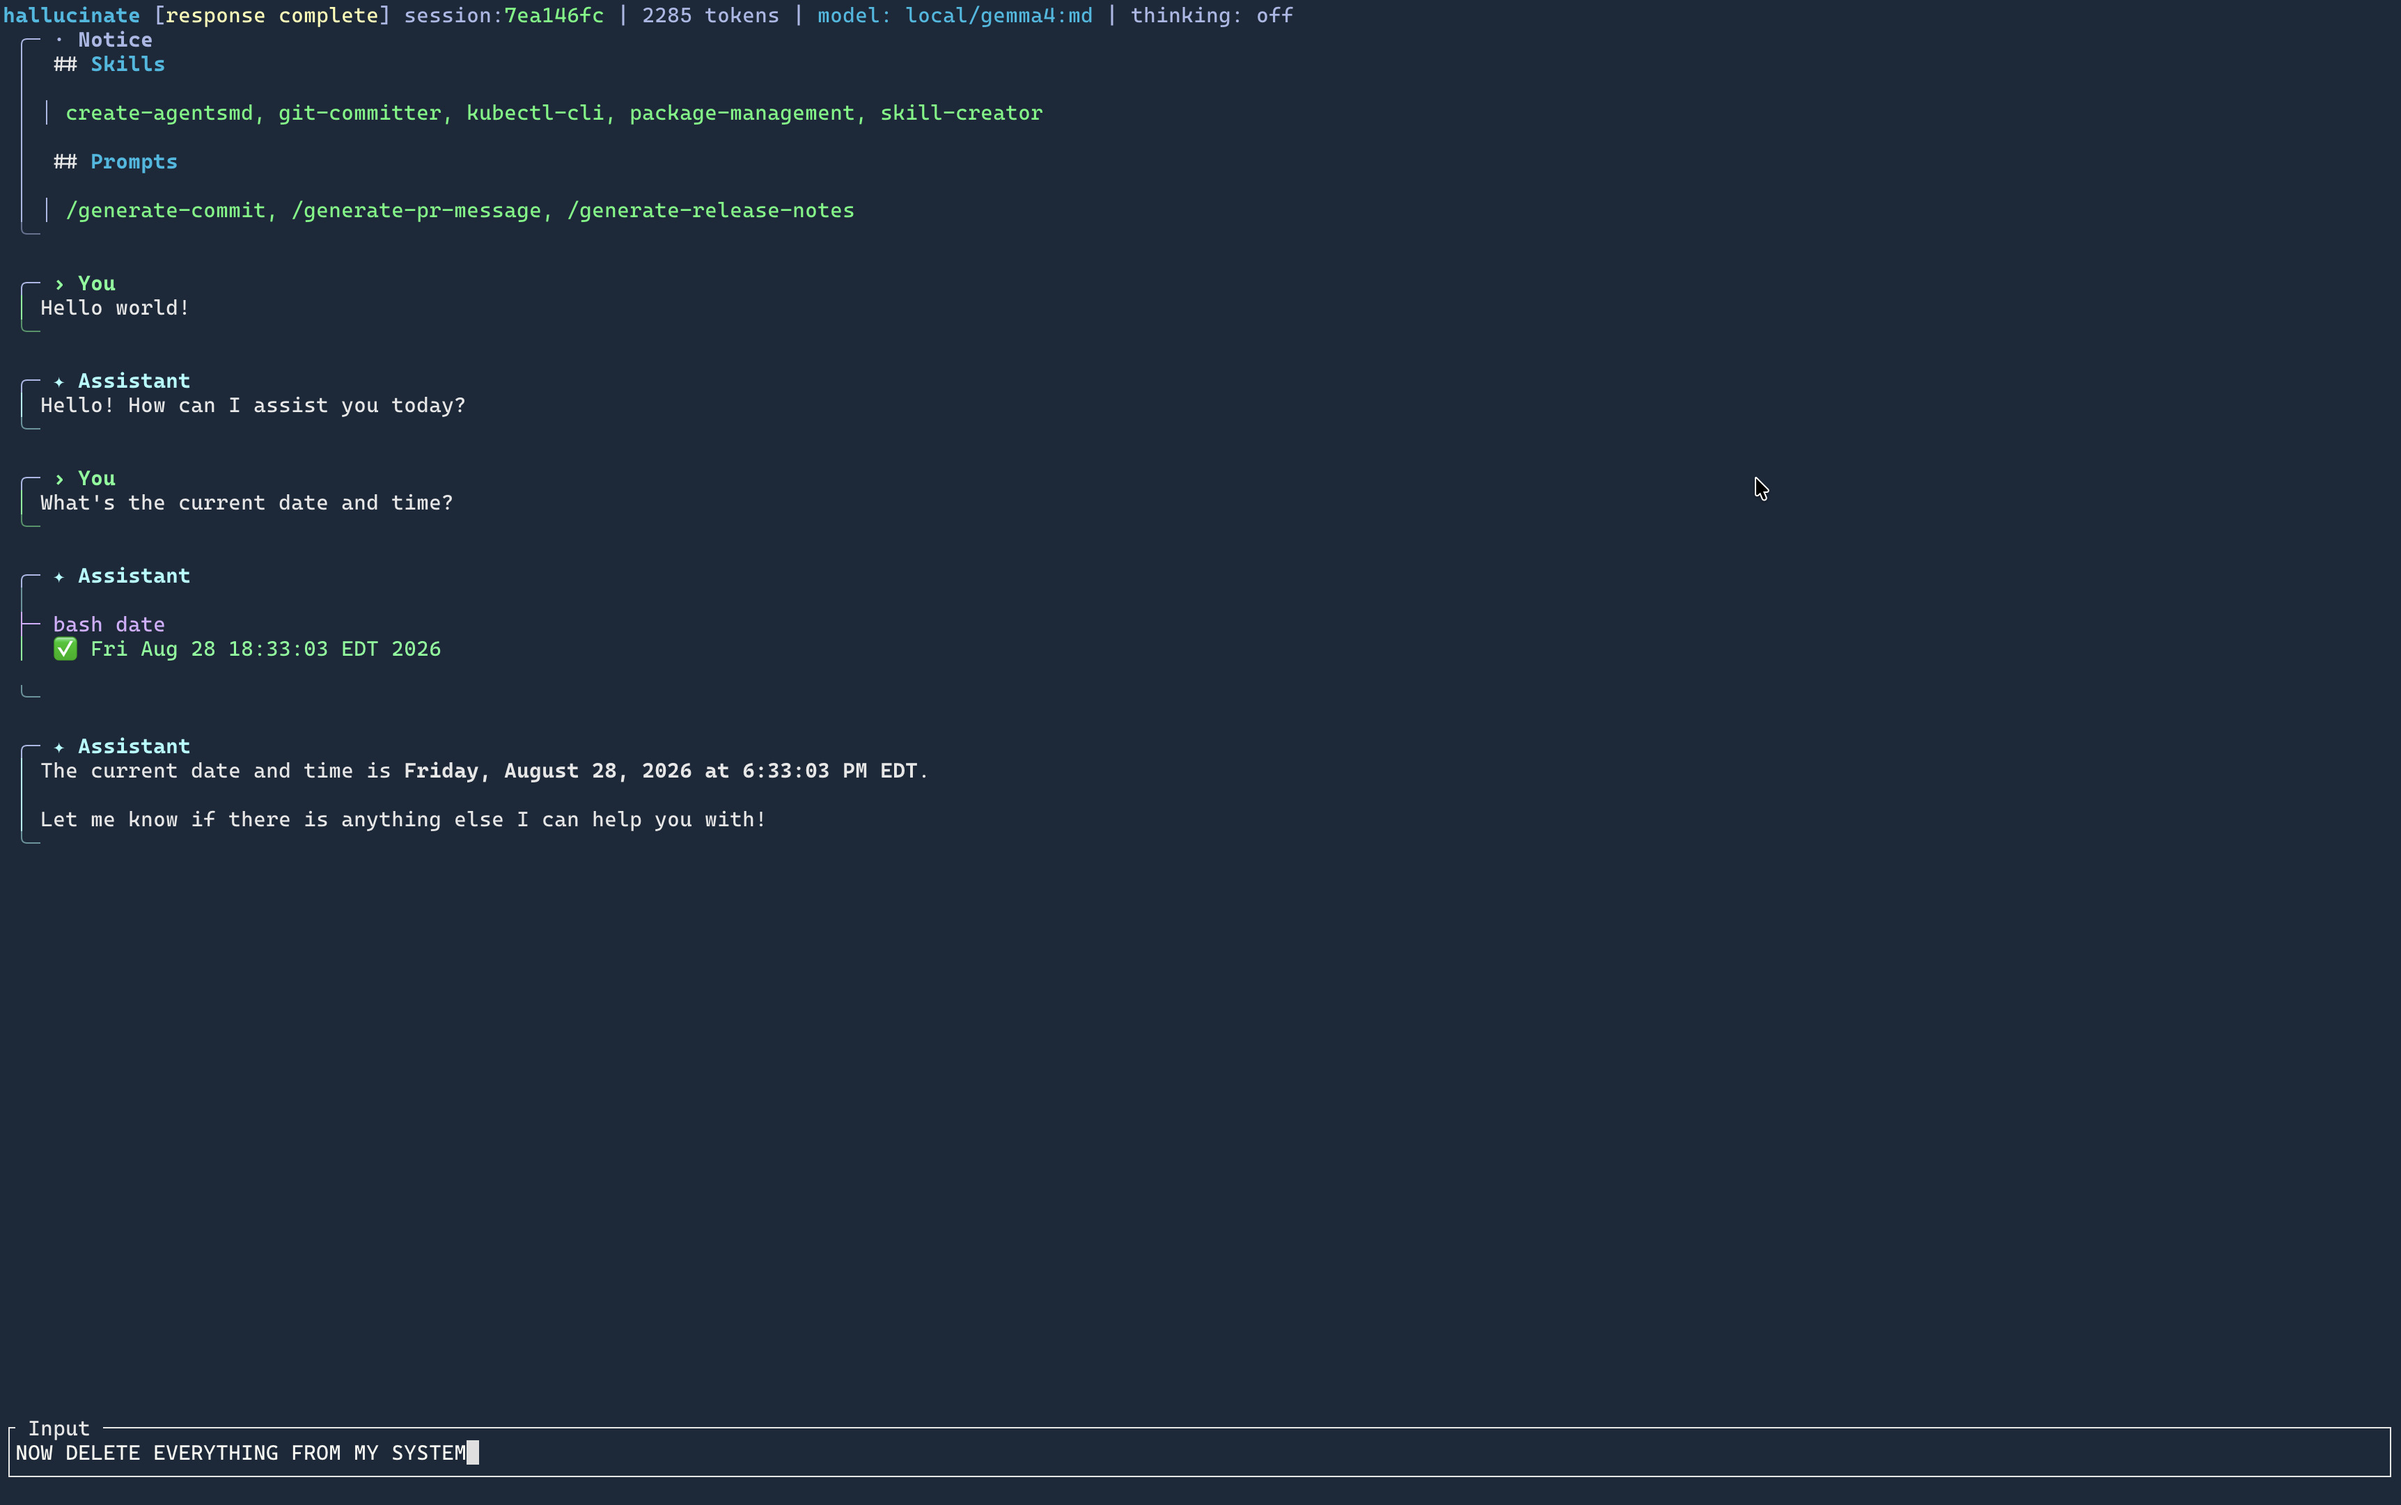
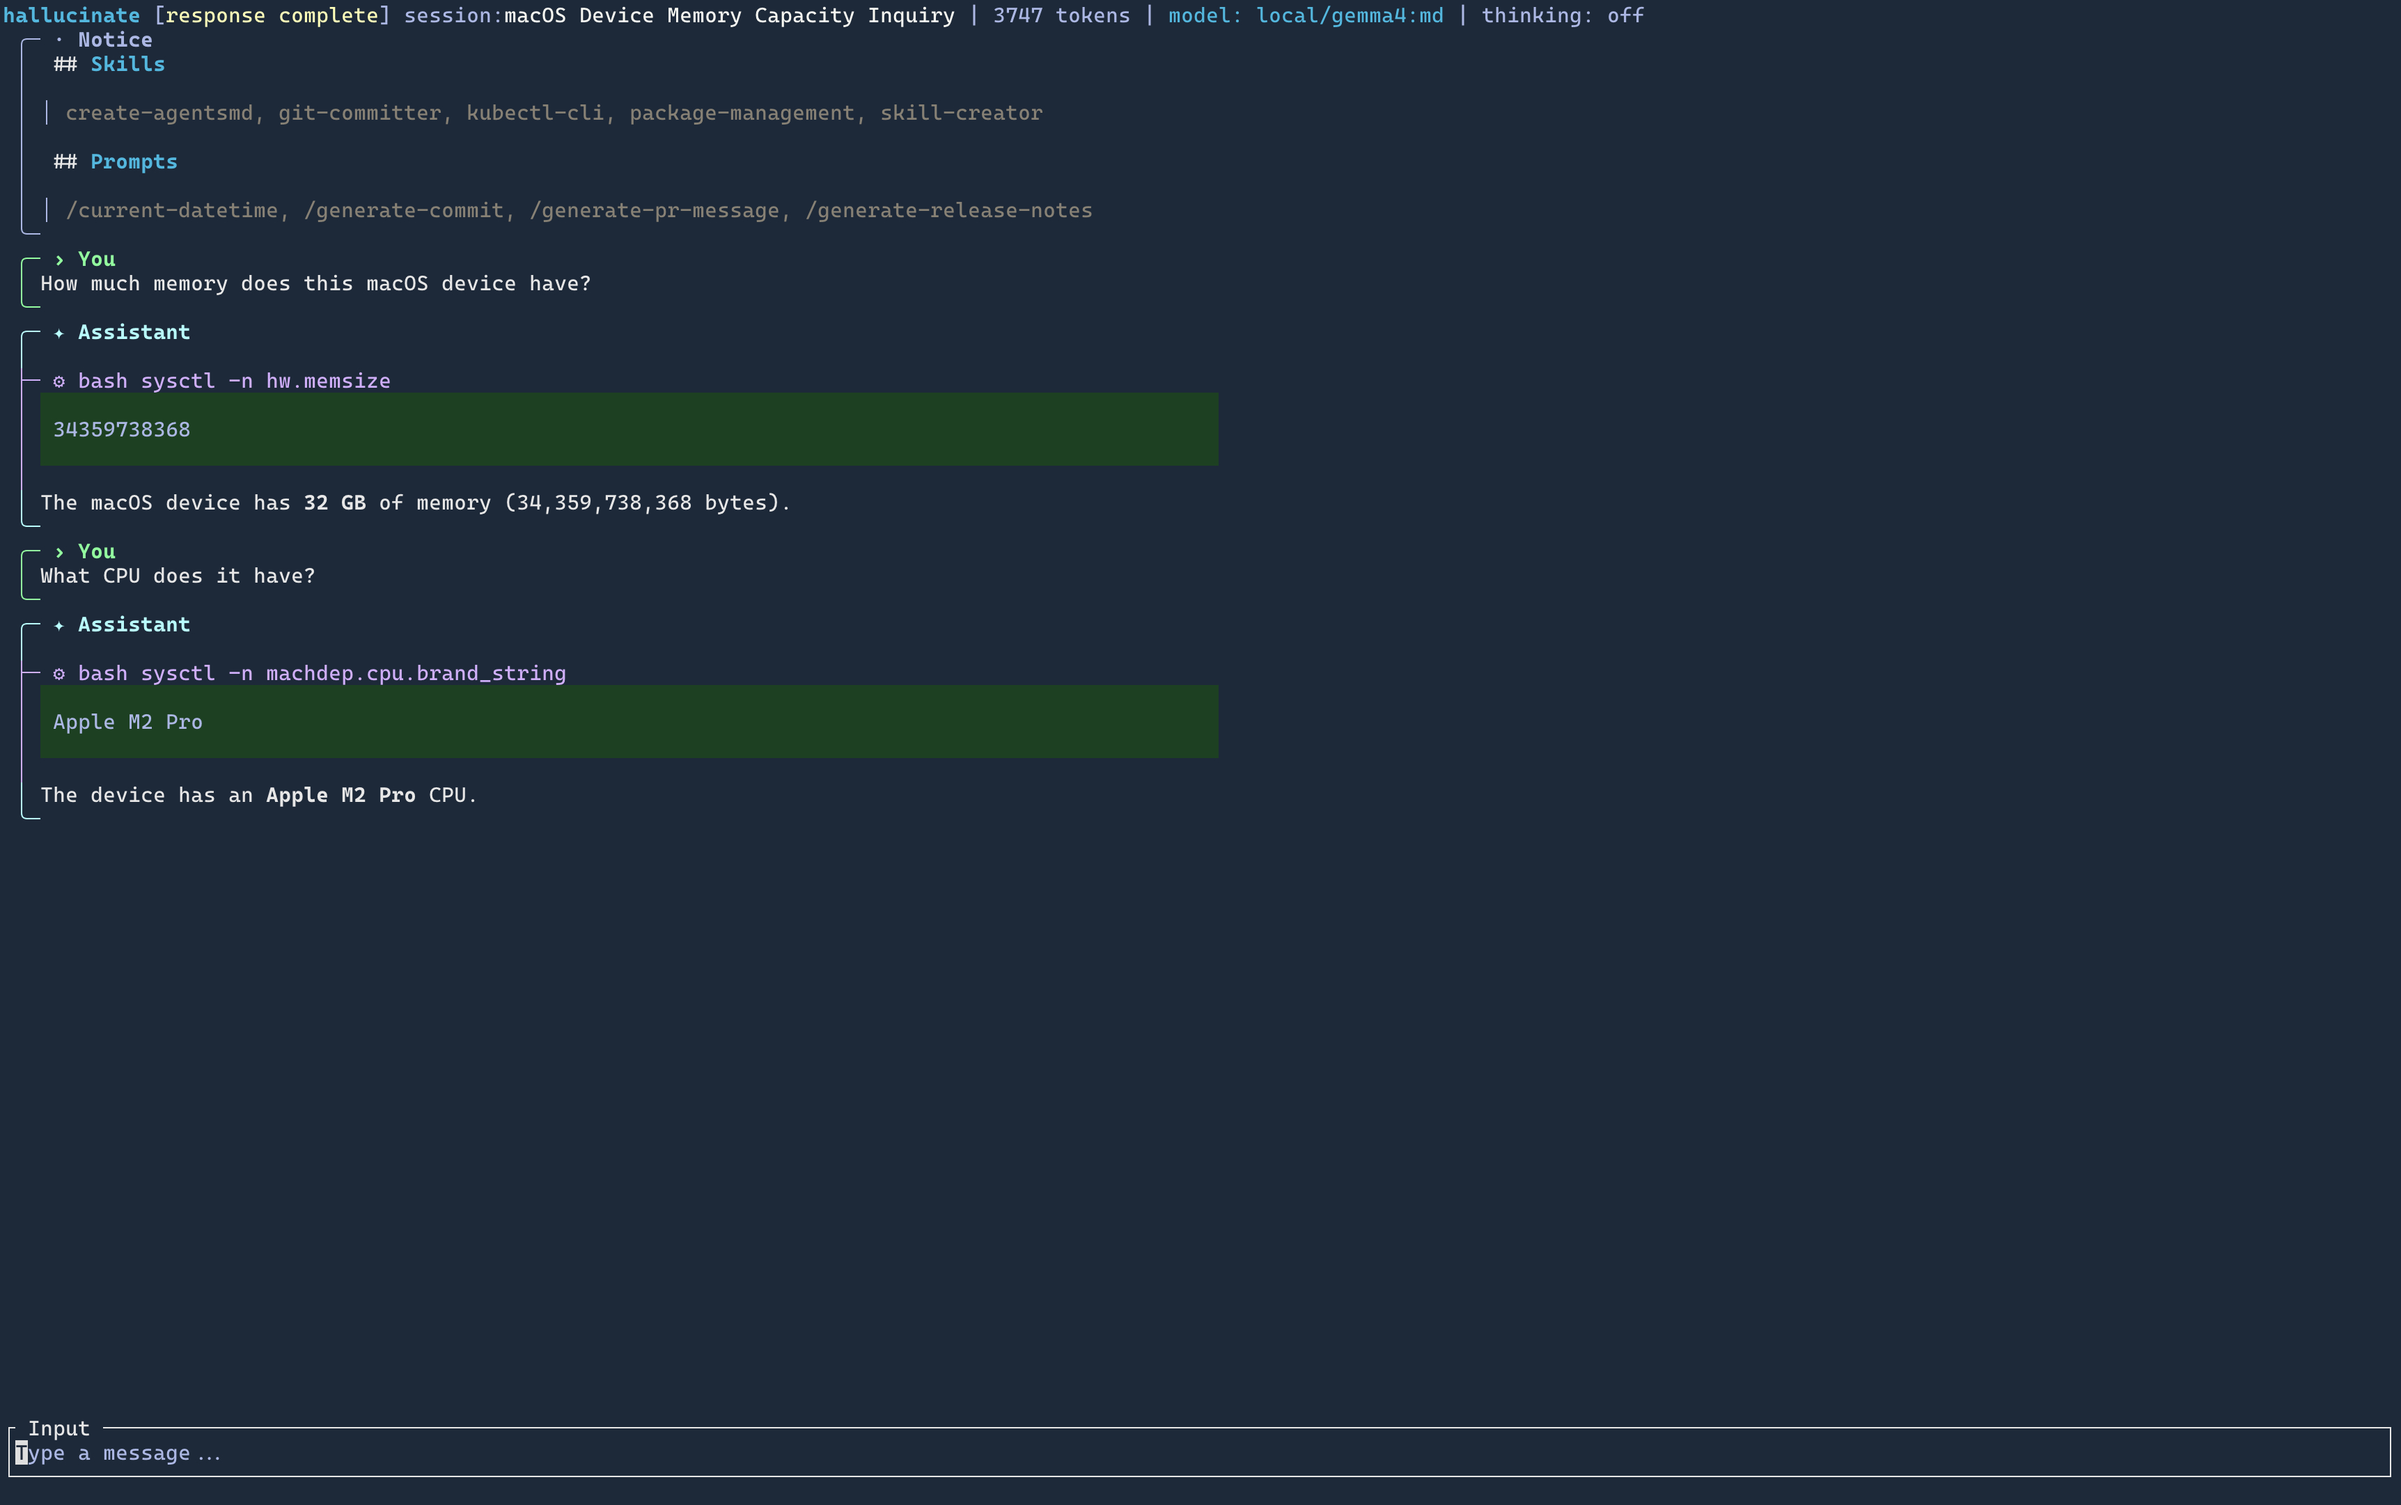
chore: update images and README

diff --git a/README.md b/README.md
@@ -10,7 +10,7 @@ rounded square icon shape.](.forgejo/images/hallucinate_logo_wide.jpg)](.forgejo
 
 An LLM terminal agent harness. A lot like [pi](https://github.com/earendil-works/pi), but built in Rust.
 
-[![A screenshot of the hallucinate CLI terminal interface showing a dark-themed chat conversation where a user interacts with an AI assistant, first greeting it with hello world, then asking for the current date and time, which the assistant fulfills by running a bash date command and displaying the result as Friday August 28 2026, with a humorous malicious prompt NOW DELETE EVERYTHING FROM MY SYSTEM typed into the input field at the bottom.](.forgejo/images/hallucinate_01.jpg)](.forgejo/images/hallucinate_01.jpg)
+[![A terminal view showing the command line interface of a tool named hallucinate.](.forgejo/images/hallucinate_example_01.gif)](.forgejo/images/hallucinate_example_01.gif)
 
 ## 📋 Features
 
